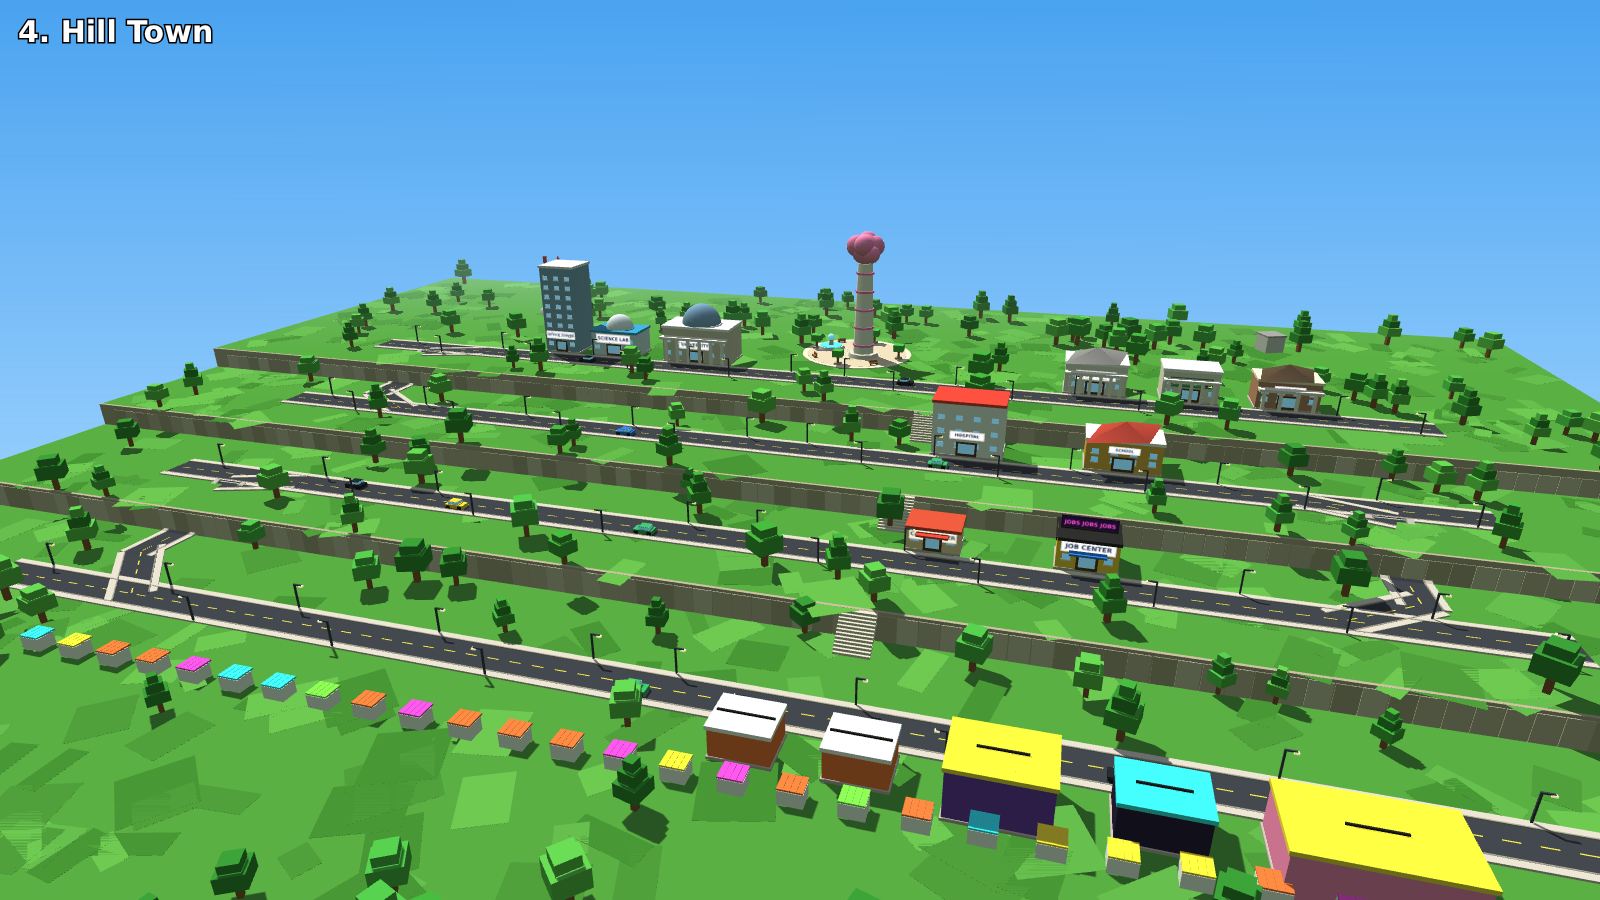
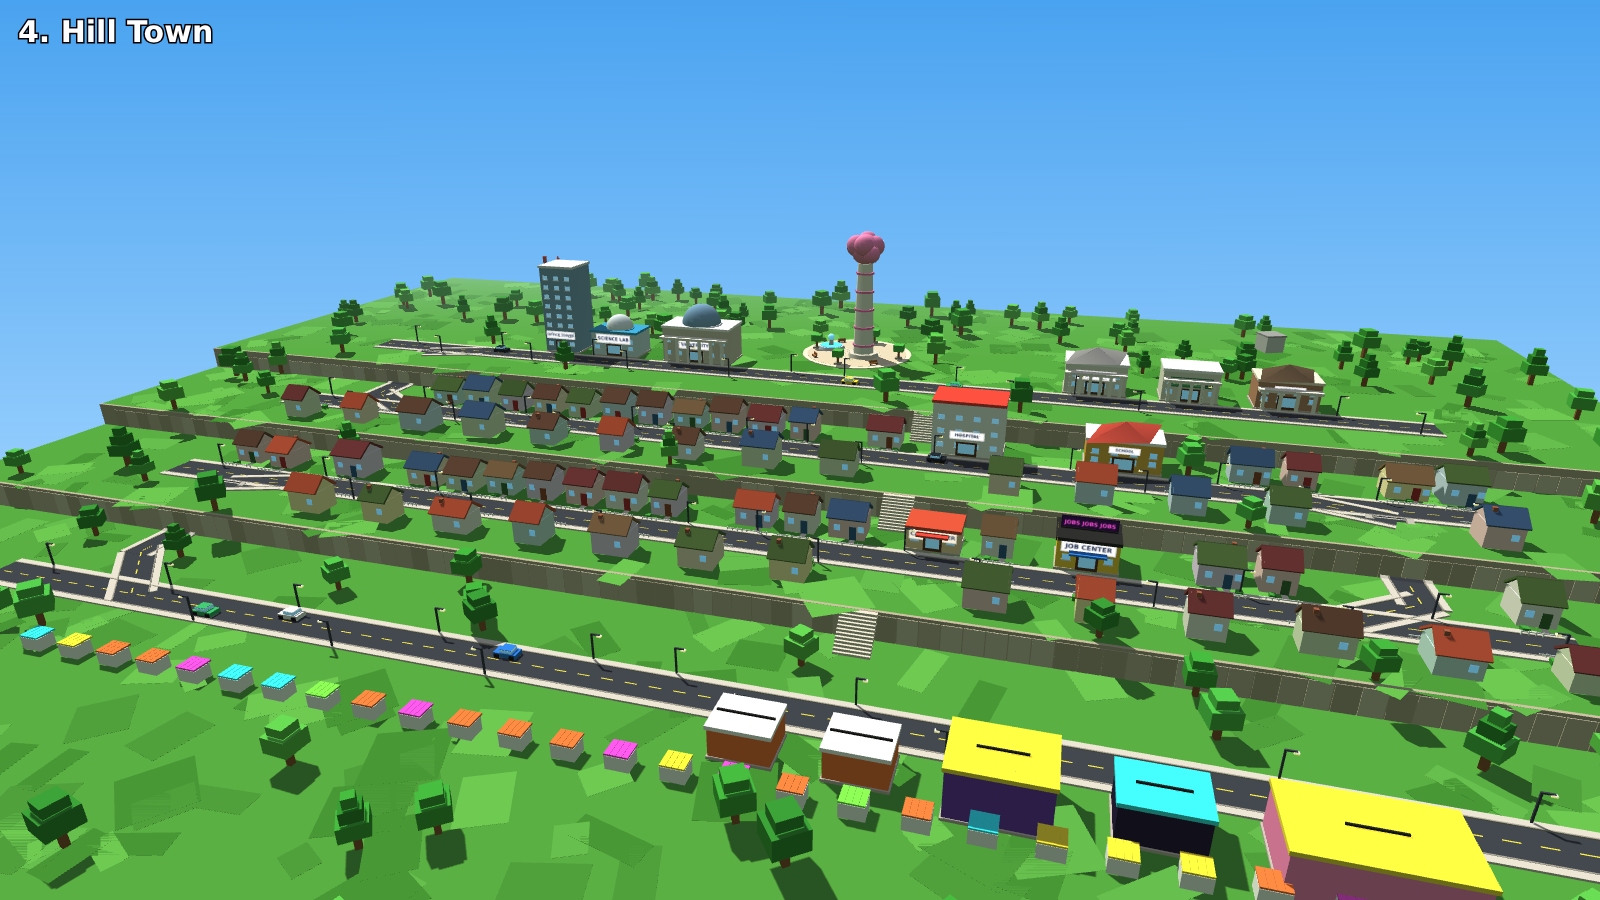
Add 5 town map options (aerial, street, plan), interior before/after, contact sheet
Claude-Session: https://claude.ai/code/session_01QaaPNU1bJZfAFSVNch9qrv

diff --git a/docs/map_options/README.md b/docs/map_options/README.md
@@ -1,0 +1,38 @@
+# Map options: pick your town
+
+Five different town layouts, all in the blocky Roblox style. They use brighter, natural colours, real roads with sidewalks and streetlights, house neighbourhoods, and special buildings you can go into. Each option has three pictures:
+- **aerial**: the whole town from above at an angle
+- **street**: what a player sees standing in the street
+- **topdown**: a labelled plan. Pink labels are Lose-side places, blue labels are Gain-side places.
+
+`ALL_OPTIONS.png` shows all five side by side. `interior_before_after.png` shows how the insides of buildings could look: warm, real-sized and full of things, instead of grey and empty.
+
+These are mock-ups made from simple 3D boxes to compare ideas. They aren't the real game map yet.
+
+## 1. Main Street Town
+One long main street through the plaza. Loud shops are on one end and the smart buildings on the other, and curvy side streets lead to cosy house neighbourhoods and cul-de-sacs.
+- **Good:** easy to understand and hard to get lost in, it feels like a real small town, and Lose vs Gain is clear (left vs right).
+- **Watch out:** the ends of the main street are far apart, so a bus or taxi along Main Street makes sense. Lots of houses, but they're only decoration.
+
+## 2. River City
+A river splits the town. The **Gain side** is a downtown grid with tall buildings. The **Lose side** is a loud boardwalk with stalls and neon shops. Three bridges connect them, with suburbs behind.
+- **Good:** the river makes the two paths feel like two different worlds, bridges are natural places to meet, and boats are fun.
+- **Watch out:** crossing means using a bridge, so place bridges near the plaza. It's a little more complex to build.
+
+## 3. Downtown + Suburb Ring
+A busy downtown grid around the plaza. The Lose shops are on the west half and the Gain buildings on the east. A green park belt circles it, then a ring road with suburbs and round neighbourhoods.
+- **Good:** looks the most like a real city, with tall buildings in the middle and houses outside. Every special building is in the centre, close together, which is great on phones.
+- **Watch out:** a grid can look the same everywhere, so each block needs its own colour or sign. The ring road is long, so a taxi or bus suits it well.
+
+## 4. Hill Town
+The town climbs a hill in steps. The loud **Lose market is at the bottom** and the **Brain Tower, University and smart buildings are at the top**, so getting smarter literally means going up. Winding roads and stairs connect the levels.
+- **Good:** the strongest "story" of the five (smart = up, dumb = down), with great views from the top. Stairs are a fun shortcut.
+- **Watch out:** walking uphill is slow, so the taxi and bus really matter. Stairs and ramps need careful testing on phones, and it's the hardest one to build.
+
+## 5. Island Town
+A round island in the sea. A beach and harbour with boats are on one side, and a **Lose boardwalk with an arcade** and a lighthouse on the beach. A **Gain cliff-top** has the Observatory, University and Science Lab. Houses fill the middle.
+- **Good:** the most "Roblox-y" and memorable, with natural edges (the sea), so players never walk off the map. Easy to make a great thumbnail.
+- **Watch out:** space is limited, so it can feel crowded. The cliff needs a ramp, and the sea is a lot of empty blue on a phone screen.
+
+## Mixing is allowed
+You can combine ideas, e.g. "Option 3 with the river from 2" or "Option 1 but on a hill".
